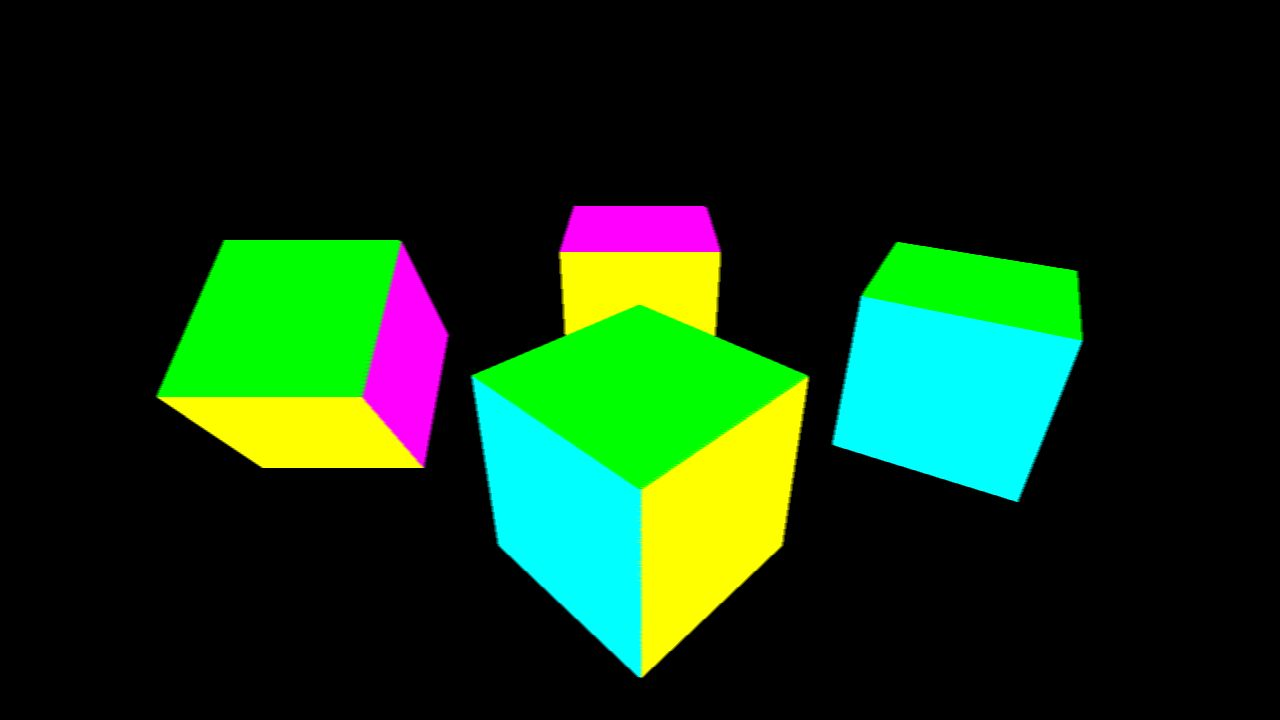
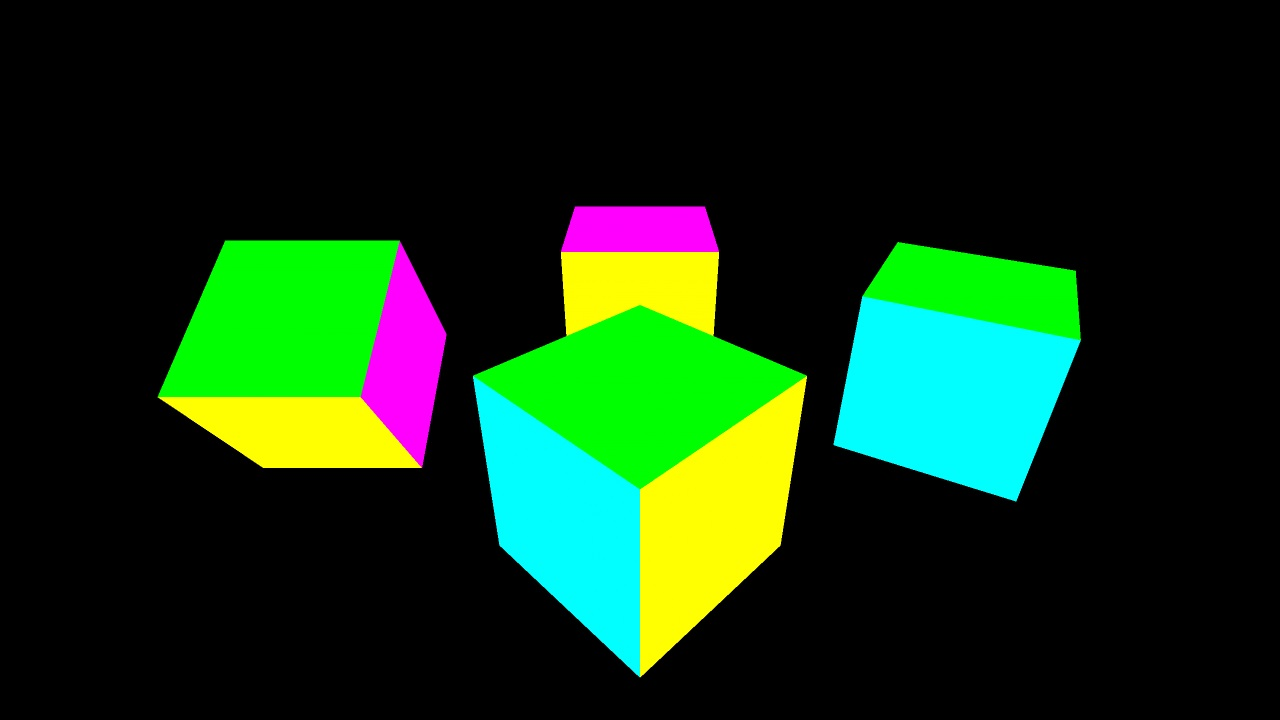
fixed: MSAA read & write wrong position bug

diff --git a/Viewer/Source/Main.cc b/Viewer/Source/Main.cc
@@ -95,6 +95,75 @@ void OutputPNG(const std::shared_ptr<FSR_Buffer2D>& InBuffer2D)
 	delete[] rgb;
 }
 
+void OutputMSAA4PNG(const std::shared_ptr<FSR_Buffer2D>& InBuffer2D)
+{
+	int32_t image_width, image_height;
+
+	if (!InBuffer2D)
+	{
+		std::cerr << "OutputPNG failed. buffer2d is null" << std::endl;
+		return;
+	}
+
+	image_width = InBuffer2D->Width() / 4;
+	image_height = InBuffer2D->Height();
+	if (image_width <= 0 || image_height <= 0)
+	{
+		std::cerr << "OutputPNG failed. image_width or image_height is invalid" << std::endl;
+		return;
+	}
+
+	unsigned char* rgb = new unsigned char[image_width * image_height * 4 * 3];
+	if (!rgb) {
+		return;
+	}
+
+	unsigned char* ptr = rgb;
+	for (int32_t j = image_height - 1; j >= 0; --j)
+	{
+		for (int32_t i = 0; i < image_width; ++i)
+		{
+			float R, G, B, A;
+
+			InBuffer2D->Read(i*4+3, j, R, G, B, A);
+			// Write the translated [0,255] value of each color component.
+			*ptr++ = static_cast<int>(255 * R);
+			*ptr++ = static_cast<int>(255 * G);
+			*ptr++ = static_cast<int>(255 * B);
+
+			InBuffer2D->Read(i*4+2, j, R, G, B, A);
+			// Write the translated [0,255] value of each color component.
+			*ptr++ = static_cast<int>(255 * R);
+			*ptr++ = static_cast<int>(255 * G);
+			*ptr++ = static_cast<int>(255 * B);
+		}
+		for (int32_t i = 0; i < image_width; ++i)
+		{
+			float R, G, B, A;
+
+			InBuffer2D->Read(i*4, j, R, G, B, A);
+			// Write the translated [0,255] value of each color component.
+			*ptr++ = static_cast<int>(255 * R);
+			*ptr++ = static_cast<int>(255 * G);
+			*ptr++ = static_cast<int>(255 * B);
+
+			InBuffer2D->Read(i*4+1, j, R, G, B, A);
+			// Write the translated [0,255] value of each color component.
+			*ptr++ = static_cast<int>(255 * R);
+			*ptr++ = static_cast<int>(255 * G);
+			*ptr++ = static_cast<int>(255 * B);
+		}
+	} // end j
+
+	FILE* fp = fopen("outputMSAA.png", "wb");
+	if (fp)
+	{
+		svpng(fp, image_width*2, image_height*2, rgb, 0);
+		fclose(fp);
+	}
+
+	delete[] rgb;
+}
 
 void OutputImage(const std::shared_ptr<FSR_Buffer2D>& InBuffer2D)
 {
@@ -231,9 +300,11 @@ void Example_Multi_Cubes()
 		5,2,1,
 		2,7,3,
 		0,7,4,
+
 		1,2,3,
 		7,6,5,
 		4,5,1,
+
 		5,6,2,
 		2,6,7, 
 		0,3,7
@@ -251,6 +322,8 @@ void Example_Multi_Cubes()
 	v0._attributes._count = 1;
 	v1._attributes._count = 1;
 	v2._attributes._count = 1;
+
+	int32_t nTriangleCount = 0;
 	for (size_t n = 0; n < objects.size(); n++)
 	{
 		glm::mat4x4 modelview = view * objects[n];
@@ -269,6 +342,7 @@ void Example_Multi_Cubes()
 			v2._attributes._members[0] = color;
 
 			FSR_Renderer::DrawTriangle(ctx, v0, v1, v2);
+			nTriangleCount++;
 		} // end for idx
 	} // end for n
 
@@ -276,6 +350,7 @@ void Example_Multi_Cubes()
 
 	ctx.ResolveMSAABuffer();
 	OutputImage(ctx.GetColorBuffer(0));
+	OutputMSAA4PNG(ctx.GetMSAAColorBuffer(0));
 
 #if SR_ENABLE_PERFORMACE_STAT
 	ctx._stats->DisplayStats(std::cerr);
@@ -483,7 +558,7 @@ void Example_Teapot_Scene()
 int main()
 {
 	//Example_SingleTriangle();
-	//Example_Multi_Cubes();
-	Example_Mesh_Scene();
+	Example_Multi_Cubes();
+	//Example_Mesh_Scene();
 	//Example_Teapot_Scene();
 }

diff --git a/Renderer/Source/SR_Context.cc b/Renderer/Source/SR_Context.cc
@@ -151,6 +151,16 @@ std::shared_ptr<FSR_Buffer2D> FSR_Context::GetColorBuffer(uint32_t InIndex) cons
 	return nullptr;
 }
 
+std::shared_ptr<FSR_Buffer2D> FSR_Context::GetMSAAColorBuffer(uint32_t InIndex) const
+{
+	if (InIndex < MAX_MRT_COUNT)
+	{
+		return _rt_colors_msaa[InIndex];
+	}
+
+	return nullptr;
+}
+
 void FSR_Context::ResolveMSAABuffer()
 {
 	if (!_bEnableMSAA)
@@ -165,12 +175,12 @@ void FSR_Context::ResolveMSAABuffer()
 
 	for (uint32_t cy = 0; cy < h; ++cy)
 	{
-		for (uint32_t cx = 0; cx < w; ++cx)
+		for (uint32_t cx = 0, msaa_cx = 0; cx < w; ++cx, msaa_cx += _MSAASamplesNum)
 		{
 			float sum = 0.f, d = 0.f;
 			for (int32_t i = 0; i < _MSAASamplesNum; ++i)
 			{
-				_rt_depth_msaa->Read(cx + i, cy, d);
+				_rt_depth_msaa->Read(msaa_cx + i, cy, d);
 				sum += d;
 			}
 
@@ -184,13 +194,13 @@ void FSR_Context::ResolveMSAABuffer()
 		{
 			for (uint32_t cy = 0; cy < h; ++cy)
 			{
-				for (uint32_t cx = 0; cx < w; ++cx)
+				for (uint32_t cx = 0, msaa_cx = 0; cx < w; ++cx, msaa_cx += _MSAASamplesNum)
 				{
 					float R = 0.f, G = 0.f, B = 0.f, A = 0.f;
 					float r, g, b, a;
 					for (int32_t i = 0; i < _MSAASamplesNum; ++i)
 					{
-						_rt_colors_msaa[rt]->Read(cx + i, cy, r, g, b, a);
+						_rt_colors_msaa[rt]->Read(msaa_cx + i, cy, r, g, b, a);
 						R += r;
 						G += g;
 						B += b;
@@ -242,10 +252,11 @@ bool FSR_Context::DepthTestAndOverrideMSAA(uint32_t cx, uint32_t cy, float InDep
 	if (_rt_depth_msaa)
 	{
 		float PrevDepth = 0.f;
-		_rt_depth_msaa->Read(cx + InSampleIndex, cy, PrevDepth);
+		uint32_t cx_msaa = cx * _MSAASamplesNum + InSampleIndex;
+		_rt_depth_msaa->Read(cx_msaa, cy, PrevDepth);
 		if (InDepth <= PrevDepth)
 		{
-			_rt_depth_msaa->Write(cx + InSampleIndex, cy, InDepth);
+			_rt_depth_msaa->Write(cx_msaa, cy, InDepth);
 			return true;
 		}
 		else
@@ -272,6 +283,7 @@ void FSR_Context::OutputAndMergeColor(int32_t cx, int32_t cy, FSRPixelShaderOutp
 
 void FSR_Context::OutputAndMergeColorMSAA(int32_t cx, int32_t cy, FSRPixelShaderOutput& InPixelOutput, int32_t InBitMask) const
 {
+	const uint32_t cx_msaa = cx * _MSAASamplesNum;
 
 	for (uint32_t k = 0; k < InPixelOutput._color_cnt; ++k)
 	{
@@ -279,12 +291,11 @@ void FSR_Context::OutputAndMergeColorMSAA(int32_t cx, int32_t cy, FSRPixelShader
 		if (rt)
 		{
 			const glm::vec4& color = InPixelOutput._colors[k];
-
 			for (int32_t index = 0; index < _MSAASamplesNum; ++index)
 			{
 				if (InBitMask & (0x01 << index))
 				{
-					rt->Write(cx + index, cy, color.r, color.g, color.b, color.a);
+					rt->Write(cx_msaa + index, cy, color.r, color.g, color.b, color.a);
 				}
 			} // end for index
 		}

diff --git a/Renderer/Source/SR_Renderer.cc b/Renderer/Source/SR_Renderer.cc
@@ -273,6 +273,7 @@ static void RasterizeTriangleNormal(const FSR_Context& InContext, const FSRVerte
 		return; // DISCARD!
 	}
 
+	const float kOneOverE012 = 1.f / E012;
 	const FSR_RasterizedVert& SV0 = screen[iv0];
 	const FSR_RasterizedVert& SV1 = screen[iv1];
 	const FSR_RasterizedVert& SV2 = screen[iv2];
@@ -331,8 +332,8 @@ static void RasterizeTriangleNormal(const FSR_Context& InContext, const FSRVerte
 			}
 
 			// perspective correct interpolate
-			const float w0 = E12 / E012;
-			const float w1 = E20 / E012;
+			const float w0 = E12 * kOneOverE012;
+			const float w1 = E20 * kOneOverE012;
 			const float w2 = (1.f - w0 - w1); // fixed for (w0 + w1 + w2) != 1.0
 
 			const float depth = w0 * SV0._screen_pos.z + w1 * SV1._screen_pos.z + w2 * SV2._screen_pos.z;
@@ -431,6 +432,7 @@ static void RasterizeTriangleMSAA4(const FSR_Context& InContext, const FSRVertex
 		return; // DISCARD!
 	}
 
+	const float kOneOverE012 = 1.f / E012;
 	const FSR_RasterizedVert& SV0 = screen[iv0];
 	const FSR_RasterizedVert& SV1 = screen[iv1];
 	const FSR_RasterizedVert& SV2 = screen[iv2];
@@ -494,8 +496,8 @@ static void RasterizeTriangleMSAA4(const FSR_Context& InContext, const FSRVertex
 				}
 
 				// perspective correct interpolate
-				const float w0 = E12 / E012;
-				const float w1 = E20 / E012;
+				const float w0 = E12 * kOneOverE012;
+				const float w1 = E20 * kOneOverE012;
 				const float w2 = (1.f - w0 - w1); // fixed for (w0 + w1 + w2) != 1.0
 
 				const float depth = w0 * SV0._screen_pos.z + w1 * SV1._screen_pos.z + w2 * SV2._screen_pos.z;
@@ -530,9 +532,9 @@ static void RasterizeTriangleMSAA4(const FSR_Context& InContext, const FSRVertex
 				float E20 = EdgeFunction(SV2._screen_pos, SV0._screen_pos, P);
 				float E01 = EdgeFunction(SV0._screen_pos, SV1._screen_pos, P);
 				// perspective correct interpolate
-				const float w0 = E12 / E012;
-				const float w1 = E20 / E012;
-				const float w2 = E01 / E012;
+				const float w0 = E12 * kOneOverE012;
+				const float w1 = E20 * kOneOverE012;
+				const float w2 = (1.f - w0 - w1); // fixed for (w0 + w1 + w2) != 1.0
 				const float W = 1.f / (w0 * SV0._inv_w + w1 * SV1._inv_w + w2 * SV2._inv_w);
 
 				// attributes

diff --git a/Renderer/Include/SR_Context.h b/Renderer/Include/SR_Context.h
@@ -54,6 +54,7 @@ public:
 	void ResolveMSAABuffer();
 	std::shared_ptr<FSR_Buffer2D> GetDepthBuffer() const;
 	std::shared_ptr<FSR_Buffer2D> GetColorBuffer(uint32_t InIndex) const;
+	std::shared_ptr<FSR_Buffer2D> GetMSAAColorBuffer(uint32_t InIndex) const;
 
 	// utilities for raster
 	glm::vec3 NDCToScreenPostion(const glm::vec3& ndc) const;
